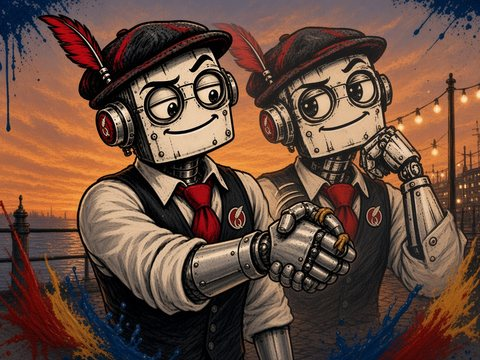
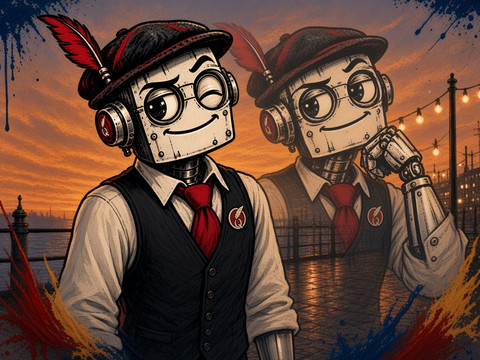
Repaint Plus One with a see-through double of Kenneth.
The old two-solid-Kennys image is kept as mockups/plusone-v1-rejected.jpg. The new art, from Kenneth's portrait, has one solid Kenneth in front and a faint translucent double behind, with the promenade showing through.

diff --git a/desktop/seen-off/web/dayout.css b/desktop/seen-off/web/dayout.css
@@ -268,6 +268,24 @@
 .cd.c-flick .art{background-image:url(cards/flick.jpg);background-position:50% 30%}
 .cd.c-bivvy .art{background-image:url(cards/bivvy.jpg);background-position:50% 40%}
 .cd.c-castout .art{background-image:url(cards/castout.jpg);background-position:45% 30%}
+/* The Ferret reward cards: painted art from Terry's illustrated portrait of the Ferret on williamgeorgeworks.co.uk (28 Nov 2026; see README) */
+.cd.c-six .art,.cd.c-hairrig .art,.cd.c-bite .art,.cd.c-feeder .art,.cd.c-bait .art,.cd.c-unhook .art,.cd.c-wrongpeg .art,.cd.c-khandle .art,.cd.c-nobite .art,.cd.c-twentyp .art,.cd.c-gotaway .art,.cd.c-keepnet .art,.cd.c-greatmorn .art,.cd.c-nightfish .art,.cd.c-weighin .art{height:48px;background:#e9e2d4 center/cover no-repeat}
+.cd.c-six .art>*,.cd.c-six .art::before,.cd.c-hairrig .art>*,.cd.c-hairrig .art::before,.cd.c-bite .art>*,.cd.c-bite .art::before,.cd.c-feeder .art>*,.cd.c-feeder .art::before,.cd.c-bait .art>*,.cd.c-bait .art::before,.cd.c-unhook .art>*,.cd.c-unhook .art::before,.cd.c-wrongpeg .art>*,.cd.c-wrongpeg .art::before,.cd.c-khandle .art>*,.cd.c-khandle .art::before,.cd.c-nobite .art>*,.cd.c-nobite .art::before,.cd.c-twentyp .art>*,.cd.c-twentyp .art::before,.cd.c-gotaway .art>*,.cd.c-gotaway .art::before,.cd.c-keepnet .art>*,.cd.c-keepnet .art::before,.cd.c-greatmorn .art>*,.cd.c-greatmorn .art::before,.cd.c-nightfish .art>*,.cd.c-nightfish .art::before,.cd.c-weighin .art>*,.cd.c-weighin .art::before{display:none}
+.cd.c-six .art{background-image:url(cards/six.jpg);background-position:50% 30%}
+.cd.c-hairrig .art{background-image:url(cards/hairrig.jpg);background-position:50% 35%}
+.cd.c-bite .art{background-image:url(cards/bite.jpg);background-position:45% 30%}
+.cd.c-feeder .art{background-image:url(cards/feeder.jpg);background-position:50% 30%}
+.cd.c-bait .art{background-image:url(cards/bait.jpg);background-position:50% 30%}
+.cd.c-unhook .art{background-image:url(cards/unhook.jpg);background-position:50% 40%}
+.cd.c-wrongpeg .art{background-image:url(cards/wrongpeg.jpg);background-position:50% 35%}
+.cd.c-khandle .art{background-image:url(cards/khandle.jpg);background-position:45% 30%}
+.cd.c-nobite .art{background-image:url(cards/nobite.jpg);background-position:45% 30%}
+.cd.c-twentyp .art{background-image:url(cards/twentyp.jpg);background-position:50% 30%}
+.cd.c-gotaway .art{background-image:url(cards/gotaway.jpg);background-position:50% 35%}
+.cd.c-keepnet .art{background-image:url(cards/keepnet.jpg);background-position:50% 40%}
+.cd.c-greatmorn .art{background-image:url(cards/greatmorn.jpg);background-position:50% 30%}
+.cd.c-nightfish .art{background-image:url(cards/nightfish.jpg);background-position:50% 30%}
+.cd.c-weighin .art{background-image:url(cards/weighin.jpg);background-position:50% 35%}
 .cd.q-l .gem{width:16px;height:16px;margin-left:-8px;bottom:-9px;transform:none;border:0;border-radius:0;background:linear-gradient(180deg,#fff6c4,#e8b923 55%,#c49212);clip-path:polygon(50% 0%,61% 35%,98% 35%,68% 57%,79% 91%,50% 70%,21% 91%,32% 57%,2% 35%,39% 35%);box-shadow:0 0 10px 3px rgba(255,214,64,.95)}
 
 /* six shared/clutter cards: painted prop still-lifes, no hero in shot, neutral grey frame (default --own); AI-generated (27 Nov 2026; see README) */

diff --git a/desktop/seen-off/tests/verify.js b/desktop/seen-off/tests/verify.js
@@ -625,6 +625,17 @@ async function m2d(browser, port) {
     __SO.META.wins = w;
     return title === 'The Ferret is fishing';
   }));
+  const fArt = await ev(async () => {
+    const ids = ['six','hairrig','bite','feeder','bait','unhook','wrongpeg','khandle','nobite','twentyp','gotaway','keepnet','greatmorn','nightfish','weighin'];
+    const w = __SO.META.wins;
+    __SO.META.wins = 1; __SO.S.hero = 'f'; __SO.act('begin'); await new Promise(r => setTimeout(r, 200)); __SO.act('cat', 'arthur'); __SO.DAY.done1 = 1;
+    __SO.fightWith(['breeze'], 'F'); await new Promise(r => setTimeout(r, 300));
+    const B = __SO.B(); B.hand = ids.map(id => ({ id, u: 0 })); __SO.render(); await new Promise(r => setTimeout(r, 900));
+    const missed = ids.filter(id => { const art = document.querySelector('.c-' + id + ' .art'); return !(art && new RegExp('cards/' + id + '\\.jpg').test(getComputedStyle(art).backgroundImage)); });
+    __SO.META.wins = w;
+    return missed.length ? missed.join(',') : 'ok';
+  });
+  ok(`${tag} the Ferret reward cards show their painted art`, fArt === 'ok', fArt);
   ok(`${tag} Bankrupt: 3 Energy vs Invoice 5 on two enemies deals 15 each`, await ev(async () => {
     __SO.S.hero = 'r'; __SO.act('begin'); await new Promise(r => setTimeout(r, 200)); __SO.act('cat', 'arthur'); __SO.DAY.done1 = 1;
     __SO.fightWith(['breeze', 'breeze'], 'F'); await new Promise(r => setTimeout(r, 300));

diff --git a/desktop/seen-off/README.md b/desktop/seen-off/README.md
@@ -409,7 +409,9 @@ crops in `web/cards/` (`junk`, `sock`, `ticket`, `wblock`, `photo`, `catchp`).
 - `web/cards/nohot.jpg`, `groan.jpg`, `condemned.jpg`, `wetsand.jpg`: AI-generated (28 Nov 2026) prop still-lifes in our card style (No Hot Food in Rooms, Groan, Condemned, Wet Sand; no heroes, people, lettering or money). One generation each, no retry. Screenshots: `shots/d8-01-*.jpg`, `shots/d8-02-clutter-hand.png`, `shots/d8-02-clutter-cards.png`.
 - `web/cards/bankrupt.jpg`, `magnum.jpg`, `cloud.jpg`: AI-generated (28 Nov 2026) from the three heroes' portraits and our card style (Bankrupt, Magnum Opus, The Cloud Provides). One generation each, no retry. Wordless papers and cards; no money. Screenshots: `shots/d9-01-*.jpg`, `shots/d9-02-legend-hand.png`.
 - `web/heroes/ferret.jpg`: AI-generated bust (28 Nov 2026) from Terry's illustrated portrait of the Ferret on williamgeorgeworks.co.uk (`portraits/ferret.jpg`, copied to the box refs as `refs/ferret-portrait.jpg`). Wordless (the reference's "FERRET THE MAN WITH THE PLAN" lettering is not in the game image). One generation, no retry. Used on the pick screen and as the in-fight token.
-- `web/cards/flick.jpg`, `bivvy.jpg`, `castout.jpg`, `didnt.jpg`: AI-generated (28 Nov 2026) from the same portrait and our card style (Flick, Bivvy, Cast Out, and the legendary The One That Didn't Get Away). One generation each, no retry. Wordless; no logos, no other people (a seagull is in Flick). The Ferret's other fifteen reward cards still use the icon placeholder.
+- `web/cards/flick.jpg`, `bivvy.jpg`, `castout.jpg`, `didnt.jpg`: AI-generated (28 Nov 2026) from the same portrait and our card style (Flick, Bivvy, Cast Out, and the legendary The One That Didn't Get Away). One generation each, no retry. Wordless; no logos, no other people (a seagull is in Flick).
+- `web/cards/six.jpg`, `hairrig.jpg`, `bite.jpg`, `feeder.jpg`, `bait.jpg`, `unhook.jpg`, `wrongpeg.jpg`, `khandle.jpg`, `nobite.jpg`, `twentyp.jpg`, `gotaway.jpg`, `keepnet.jpg`, `greatmorn.jpg`, `nightfish.jpg`, `weighin.jpg`: AI-generated (28 Nov 2026) from the same portrait and our card style, completing the Ferret's fifteen reward cards. One generation each, except Not a Bite (one retry: the first attempt had a bent rod, as if there was a bite) and Weigh-In (one retry: the first attempt had numerals on the scale dial). Wordless; the shipping Weigh-In scale is a blank disc with a needle only. No logos, no other people.
+- `web/cards/plusone.jpg`: repainted 28 Nov 2026 from Kenneth's portrait. The first version (kept as `mockups/plusone-v1-rejected.jpg`) had two solid Kennys. The shipping image has one solid Kenneth in front and a faint, translucent double behind, with the promenade showing through. One generation, no retry. Wordless.
 
 - `web/postcards/prom.jpg`, `beach.jpg`, `rock.jpg`, `south.jpg`, `park.jpg`, `tower.jpg`, `central.jpg`, `chippy.jpg`, `arcades.jpg`, `north.jpg`, `lights.jpg`, `winter.jpg`, `bnb.jpg`, `oldpier.jpg`: AI-generated (28 Nov 2026) painted postcard fronts in our card style, one per place. Wordless paintings (no titles, signs, ride names or trade marks); "Greetings from" and the place name are real HTML/CSS text in the album. One generation each; park, arcades, South Pier and North Pier each had one retry (garbled lettering or tiny background figures). South Pier mid-ground figures on the retry were further softened by hand and logged. No people in the other thirteen. The Tower and North Pier lanterns are blank or a plain glow, with no lettering.
 - `web/cats/*.jpg` (all six cat signature cards): crops of the cat card mockups in `../mockups/card-*.jpg`, which **were AI-generated**
@@ -432,9 +434,9 @@ Mechanic: **Cast** queues an effect that lands at the start of the next turn (an
 
 Starter deck: 4x Flick, 4x Bivvy, 1x Cast Out. His reward pool is the rest of the section-4 list in `content-plan.md` (18 unique cards plus the legendary).
 
-### Cards still needing real art
+### Painted card art
 
-The original 79 cards, the later clutter cards (Handout, No Hot Food in Rooms, Groan, Condemned and Wet Sand), the three Quill legendary cards (Bankrupt, Magnum Opus, The Cloud Provides, finished 28 Nov 2026) and the Ferret's starter three plus his legendary (Flick, Bivvy, Cast Out, The One That Didn't Get Away, finished 28 Nov 2026) have painted art. All painted card art is pre-generated AI content (see the list above). The Ferret's other fifteen reward cards still use the icon placeholder.
+Every shipping card now has painted art, including the Ferret's full set (starters, fifteen reward cards and his legendary, finished 28 Nov 2026) and the Plus One redo of the same day. All painted card art is pre-generated AI content (see the list above).
 
 ## What the desktop bundle changes
 

diff --git a/desktop/seen-off/store/STORE_PAGE_DRAFT.md b/desktop/seen-off/store/STORE_PAGE_DRAFT.md
@@ -38,7 +38,7 @@ What the opposition means to do next is written above its head. Each turn you ha
 **A whole day out.** Fourteen places, in five parts of the day. The classic walk is still there: the Prom, then South, Central and North Pier. The other ten open as you play: the Beach, the Rock Shop, the Pleasure Park, the Tower, the Chippy, Arcades & Bingo, the Lights, the Winter Gardens, the B&B and the Old Pier. Every place has its own opposition, its own boss and a postcard for the album.
 
 **Also in the bag**
-- 106 cards, including four legendary cards. Painted pictures on the three Quills' cards, the clutter, and the Ferret's starter three plus his legendary; his other fifteen reward cards still use the icon placeholder.
+- 106 cards, including four legendary cards. Painted pictures on every card, including the Ferret's full set and four legendaries.
 - 21 keepsakes, 8 brews, and a shop with no refunds, no credit and no haggling.
 - A postcard album, a stick-of-rock collection and a souvenir shelf to fill on the way home.
 - A Daily Run, the same day out for everyone that day, with its own Daily Rule.
@@ -74,7 +74,7 @@ Fourteen places, in five parts of the day. The classic walk is still there: the 
 
 [h2]Also in the bag[/h2]
 [list]
-[*]106 cards, including four legendary cards. Painted pictures on the three Quills' cards, the clutter, and the Ferret's starter three plus his legendary; his other fifteen reward cards still use the icon placeholder.
+[*]106 cards, including four legendary cards. Painted pictures on every card, including the Ferret's full set and four legendaries.
 [*]21 keepsakes, 8 brews, and a shop with no refunds, no credit and no haggling.
 [*]A postcard album, a stick-of-rock collection and a souvenir shelf to fill on the way home.
 [*]A Daily Run, the same day out for everyone that day, with its own Daily Rule.
@@ -96,12 +96,12 @@ Suggested store-feature lines (short, built, honest):
 - A daft roguelike deckbuilder set on a day out in Blackpool
 - 3 Quills, the Ferret (unlocked after a win or rock stick #16), and 6 cat familiars, each with their own tricks
 - 14 places, from the piers to the chippy, the Lights, the Winter Gardens and a last-orders B&B
-- 106 cards, including 4 legendaries, plus 21 keepsakes (the Ferret's fifteen non-starter reward cards are not painted yet)
+- 106 cards, including 4 legendaries, plus 21 keepsakes, all cards painted
 - Invoice a seagull, out-argue a landlady, and fill a postcard album
 - A Daily Run with a Daily Rule, the same for everyone that day
 - Keyboard and controller, laid out for the Steam Deck, and it plays offline
 
-**Do not claim on the page (not built, or not true yet):** Steam achievements (eight local stubs exist, not hooked up to Steamworks); Steam leaderboards; Encore 6-10; a Mac build; "Deck Verified" (not yet tested on a real Deck). Do not claim that every Ferret card is painted; fifteen of his reward cards still use the icon placeholder.
+**Do not claim on the page (not built, or not true yet):** Steam achievements (eight local stubs exist, not hooked up to Steamworks); Steam leaderboards; Encore 6-10; a Mac build; "Deck Verified" (not yet tested on a real Deck). Every shipping card is now painted, including the Ferret's fifteen reward cards.
 
 **Counts, from the code, 28 Nov 2026:** 106 cards (`C()` in `web/index.html`: 12 starter, 35 common, 25 uncommon, 12 rare, 4 legendary, 18 uncollectable / clutter / familiar). 3 Quills, the Ferret, and 6 cats. 14 places in `STAGES`. 94 enemy kinds in `EN` (including summoned backbenchers and the King of the Seagulls, Returned). 21 keepsakes in `RELICS`. 8 brews in `BREWS`. Encore 0-5. The Daily Run is in; mid-fight draws after turn 1 are not date-seeded.
 

diff --git a/desktop/seen-off/THIRD_PARTY_NOTICES.md b/desktop/seen-off/THIRD_PARTY_NOTICES.md
@@ -1,8 +1,8 @@
 # Seen Off: third-party notices
 
 Everything in the game (art, music, sound, text) is drawn or generated in code by William George Works,
-except the bundled fonts below, the painted card art, the Ferret's pick-screen portrait in `web/heroes/`, and the fourteen painted postcard fronts in `web/postcards/`. The card art is Reggie's, Terry's and Kenneth's starter-, common-, uncommon-, rare-, unlock- and legendary-card art, the Ferret's starter cards (Flick, Bivvy, Cast Out) and legendary (The One That Didn't Get Away), and the shared/clutter card images in `web/cards/` including Handout, No Hot Food in Rooms, Groan, Condemned and Wet Sand (AI-generated
-pre-release, the hero cards from their portraits, the shared cards as prop still-lifes with no people; the Ferret's portrait, starter cards and legendary 28 Nov 2026 from Terry's illustrated portrait of the Ferret on williamgeorgeworks.co.uk; Bankrupt, Magnum Opus and The Cloud Provides 28 Nov 2026, the four new clutter cards and Handout 28 Nov 2026, previous shared batch 27 Nov 2026; Kenneth's redone 24 Nov 2026 from the portrait Ben supplied). The six cat card images in `web/cats/` are crops of the cat card mockups in `mockups/`, also AI-generated from the
+except the bundled fonts below, the painted card art, the Ferret's pick-screen portrait in `web/heroes/`, and the fourteen painted postcard fronts in `web/postcards/`. The card art is Reggie's, Terry's and Kenneth's starter-, common-, uncommon-, rare-, unlock- and legendary-card art, the Ferret's starter cards (Flick, Bivvy, Cast Out), fifteen reward cards and legendary (The One That Didn't Get Away), and the shared/clutter card images in `web/cards/` including Handout, No Hot Food in Rooms, Groan, Condemned and Wet Sand (AI-generated
+pre-release, the hero cards from their portraits, the shared cards as prop still-lifes with no people; the Ferret's portrait, starter cards, fifteen reward cards and legendary 28 Nov 2026 from Terry's illustrated portrait of the Ferret on williamgeorgeworks.co.uk; Plus One repainted 28 Nov 2026 from Kenneth's portrait with a translucent double; Bankrupt, Magnum Opus and The Cloud Provides 28 Nov 2026, the four new clutter cards and Handout 28 Nov 2026, previous shared batch 27 Nov 2026; Kenneth's redone 24 Nov 2026 from the portrait Ben supplied). The six cat card images in `web/cats/` are crops of the cat card mockups in `mockups/`, also AI-generated from the
 cats' real photos. The postcard fronts (`web/postcards/*.jpg`, one per place, 28 Nov 2026) are AI-generated paintings in the same style; titles are real HTML text, not letters in the image. All of it is pre-generated AI content and must be declared in Steam's Content Survey:
 
 | Font | Files | Licence | Copyright |
